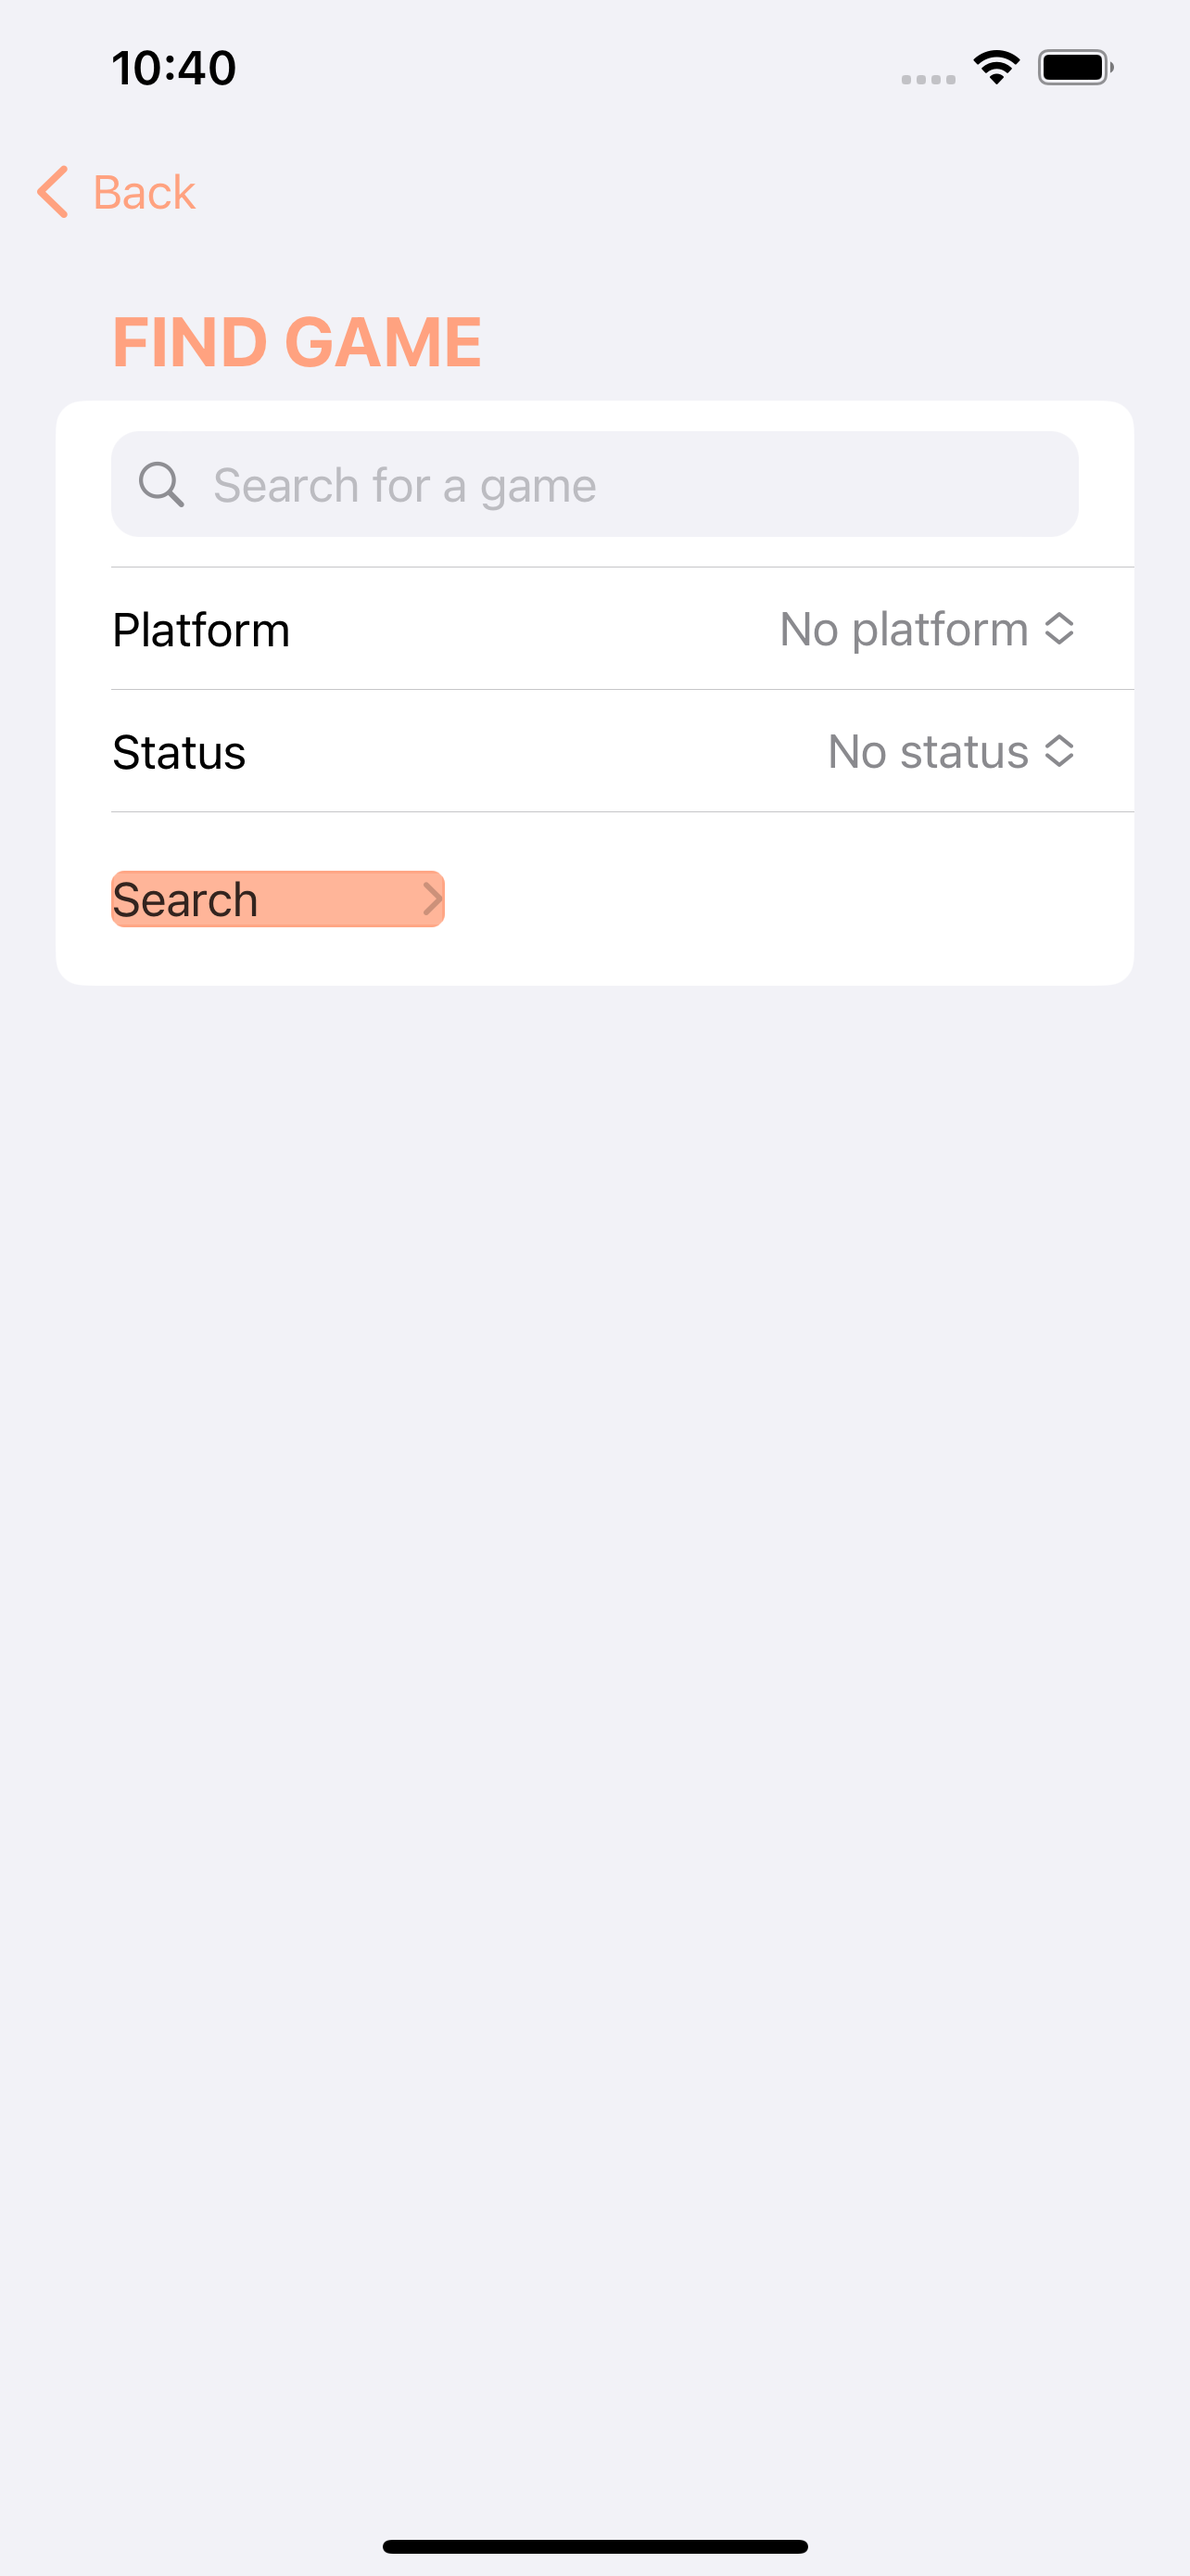
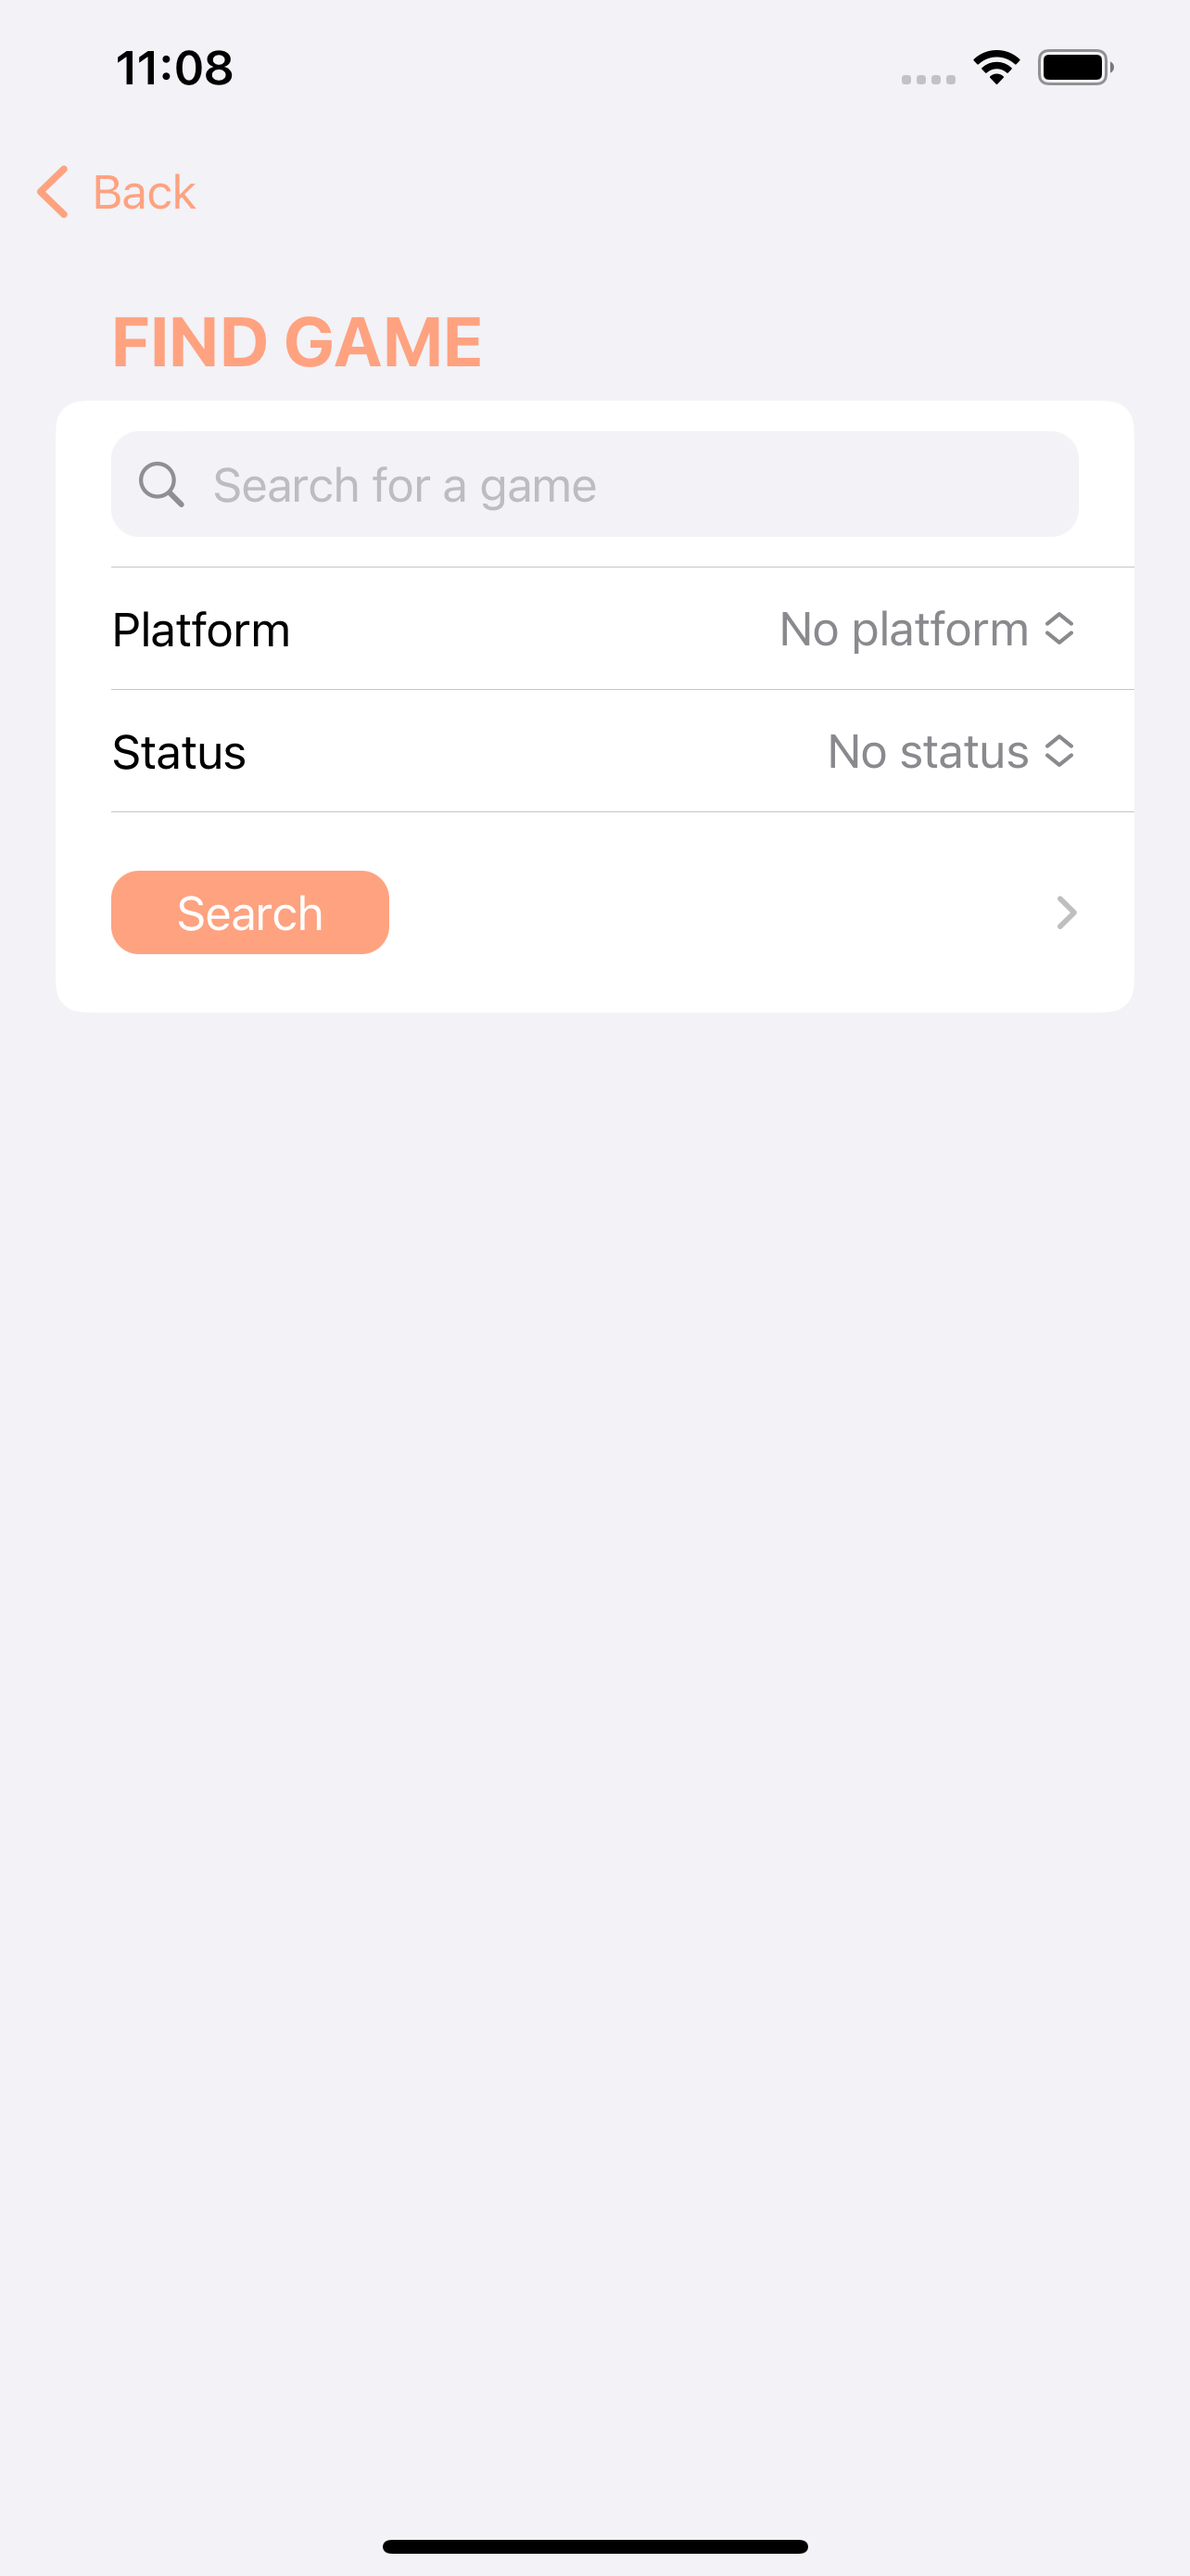
Update search button style and add todo comments.

Changed region(s): [[0.0935, 0.3405, 0.3738, 0.3715], [0.0935, 0.0, 0.1869, 0.031]]

diff --git a/GameList/View/FilterGameView.swift b/GameList/View/FilterGameView.swift
@@ -22,7 +22,7 @@ struct FilterGameView: View {
                 HStack {
                     Image(systemName: "magnifyingglass")
                         .foregroundColor(.gray)
-                    
+                    // TODO: add arbitrary search
                     TextField("Search for a game", text: $searchName)
                         .autocapitalization(.none)
                         .disableAutocorrection(true)
@@ -45,14 +45,15 @@ struct FilterGameView: View {
                     }
                 }
                 
-                //Save Button
-                NavigationLink("Search", destination: GameListView(name: searchName, platform: selectedPlatform, status: selectedStatus))
-                    .frame(maxWidth: 120, alignment: .center)
-                    .border(Color.accentColor)
-                    .background(Color.accentColor)
-                    .cornerRadius(5)
-                    .opacity(0.8)
-                    .padding(.vertical, 10)
+                // Search Button
+                NavigationLink(destination: GameListView(name: searchName, platform: selectedPlatform, status: selectedStatus)) {
+                    Text("Search")
+                            .frame(width: 100, height: 30, alignment: .center)
+                            .background(Color.accentColor)
+                            .foregroundColor(Color.white)
+                            .cornerRadius(10)
+                            .padding(.vertical, 10)
+                }
             }
         }
     }

diff --git a/GameList/View/GameListView.swift b/GameList/View/GameListView.swift
@@ -77,6 +77,7 @@ struct GameListView: View {
                         .padding([.vertical, .horizontal], 8)
                         .offset(x: offsets[index].width)
                         .gesture(
+                            // TODO: improve the delete item effect
                             DragGesture()
                                 .onChanged { gesture in
                                     // Prevent swipe to the right in default position

diff --git a/GameList/View/ContentView.swift b/GameList/View/ContentView.swift
@@ -57,6 +57,7 @@ struct ContentView: View {
                     }
                     
                     Spacer()
+                    // TODO: add some timeline for the finished games
                 }
                 .navigationDestination(for: String.self) { route in
                     switch route {
